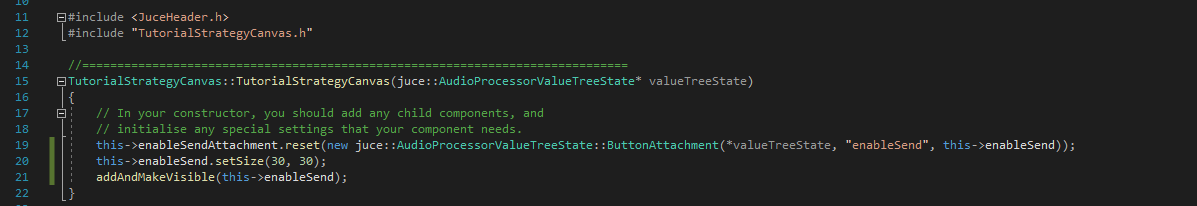
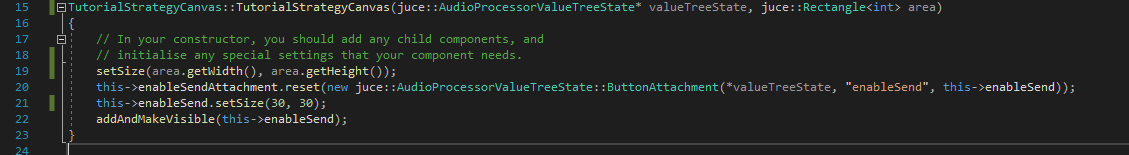
tut4

Changed region(s): [[0.0, 0.2065, 1.0, 1.0], [0.0, 0.0, 0.837, 0.2065], [0.093, 0.2323, 0.496, 0.2839]]

diff --git a/JUCE_plugin/Source/PluginEditor.cpp b/JUCE_plugin/Source/PluginEditor.cpp
@@ -63,6 +63,7 @@ Festivalle21AudioProcessorEditor::Festivalle21AudioProcessorEditor (Festivalle21
     this->strategySelector.setJustificationType(juce::Justification::centred);
     this->strategySelector.addItem("Arousal Valence", 1);
     this->strategySelector.addItem("Colour mapping", 2);
+    this->strategySelector.addItem("Tutorial", 3);
     addAndMakeVisible(strategySelector);
 }
 
@@ -118,6 +119,9 @@ void Festivalle21AudioProcessorEditor::strategySelectionChanged()
         break;
     case 1:
         canvas = new ColourMappingCanvas(this->valueTreeState, juce::Rectangle<int>(getLocalBounds().reduced(10)), this->audioProcessor.getStrategy());
+        break;
+    case 2:
+        canvas = new TutorialStrategyCanvas(this->valueTreeState, juce::Rectangle<int>(getLocalBounds().removeFromTop(550)));
         break;
     default:
         break;

diff --git a/JUCE_plugin/Source/TutorialStrategyCanvas.cpp b/JUCE_plugin/Source/TutorialStrategyCanvas.cpp
@@ -12,10 +12,11 @@
 #include "TutorialStrategyCanvas.h"
 
 //==============================================================================
-TutorialStrategyCanvas::TutorialStrategyCanvas(juce::AudioProcessorValueTreeState* valueTreeState)
+TutorialStrategyCanvas::TutorialStrategyCanvas(juce::AudioProcessorValueTreeState* valueTreeState, juce::Rectangle<int> area)
 {
     // In your constructor, you should add any child components, and
     // initialise any special settings that your component needs.
+    setSize(area.getWidth(), area.getHeight());
     this->enableSendAttachment.reset(new juce::AudioProcessorValueTreeState::ButtonAttachment(*valueTreeState, "enableSend", this->enableSend));
     this->enableSend.setSize(30, 30);
     addAndMakeVisible(this->enableSend);

diff --git a/JUCE_plugin/Source/TutorialStrategyCanvas.h b/JUCE_plugin/Source/TutorialStrategyCanvas.h
@@ -18,7 +18,7 @@
 class TutorialStrategyCanvas  : public juce::Component
 {
 public:
-    TutorialStrategyCanvas(juce::AudioProcessorValueTreeState* valueTreeState);
+    TutorialStrategyCanvas(juce::AudioProcessorValueTreeState* valueTreeState, juce::Rectangle<int> area);
     ~TutorialStrategyCanvas() override;
 
     void paint (juce::Graphics&) override;

diff --git a/JUCE_plugin/Source/PluginEditor.h b/JUCE_plugin/Source/PluginEditor.h
@@ -13,6 +13,7 @@
 #include "MyKnob.h"
 #include "ColourMappingCanvas.h"
 #include "ArousalValenceCanvas.h"
+#include "TutorialStrategyCanvas.h"
 
 //==============================================================================
 /**
